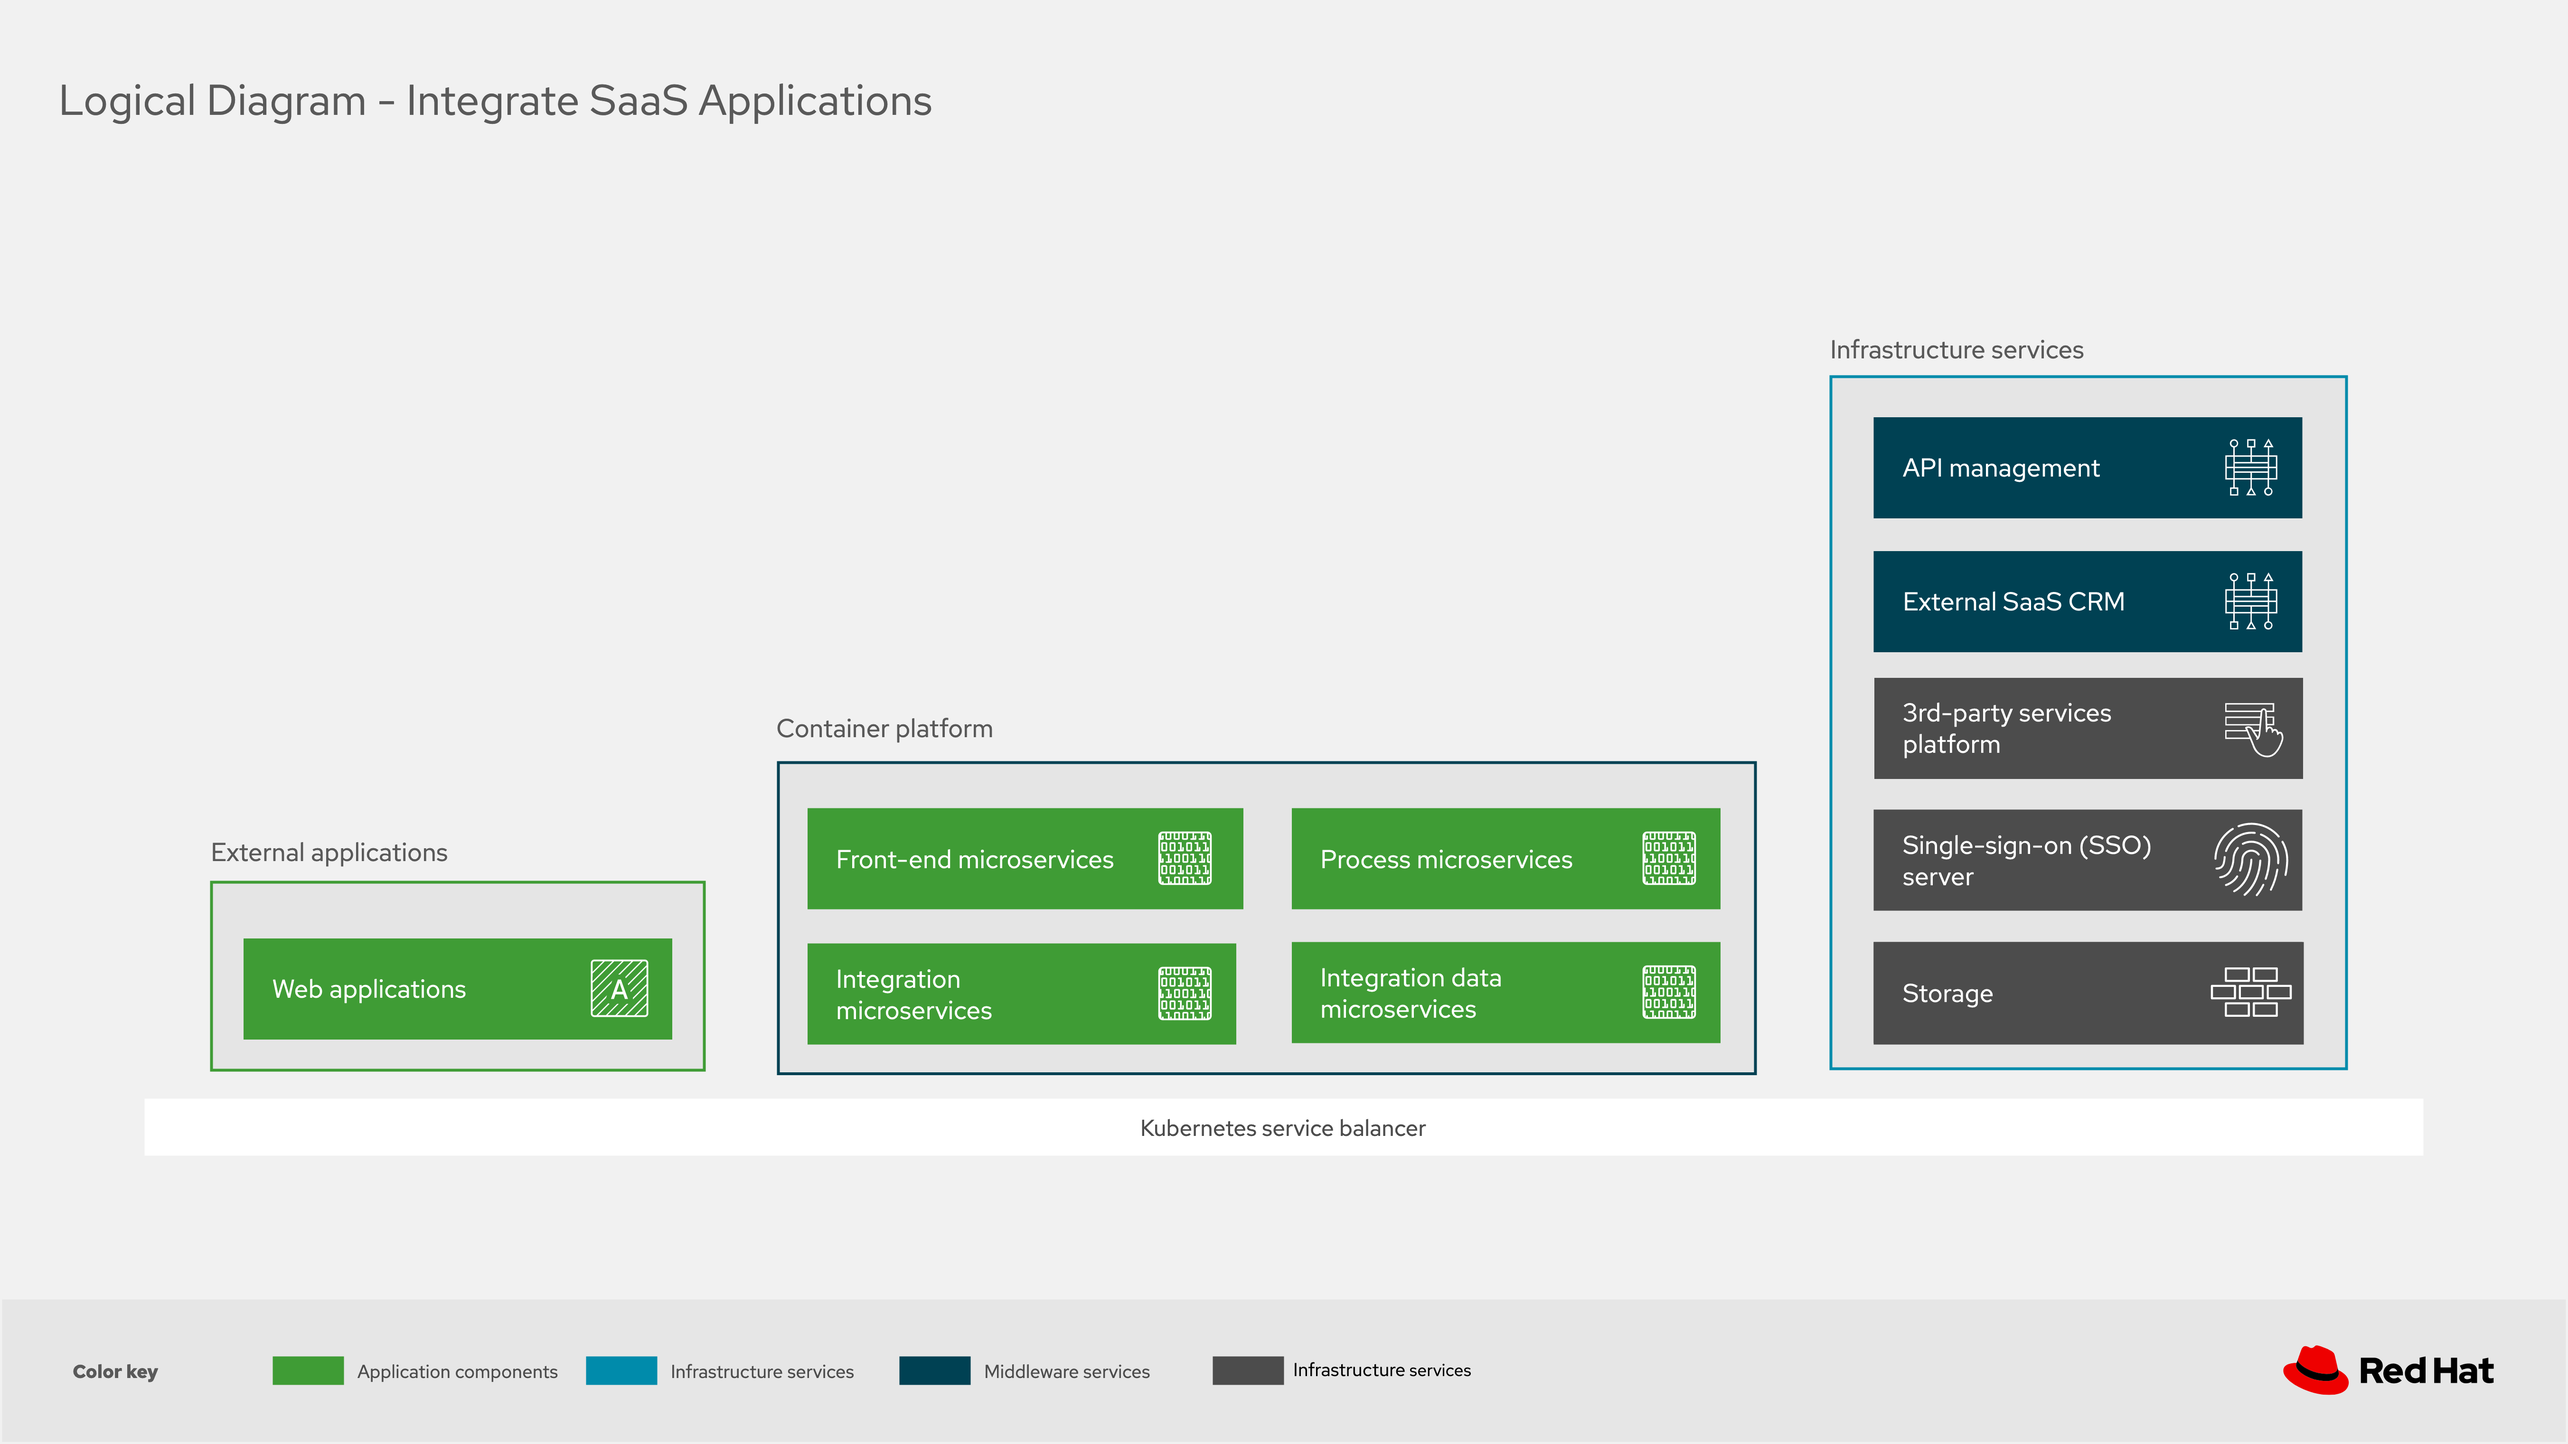
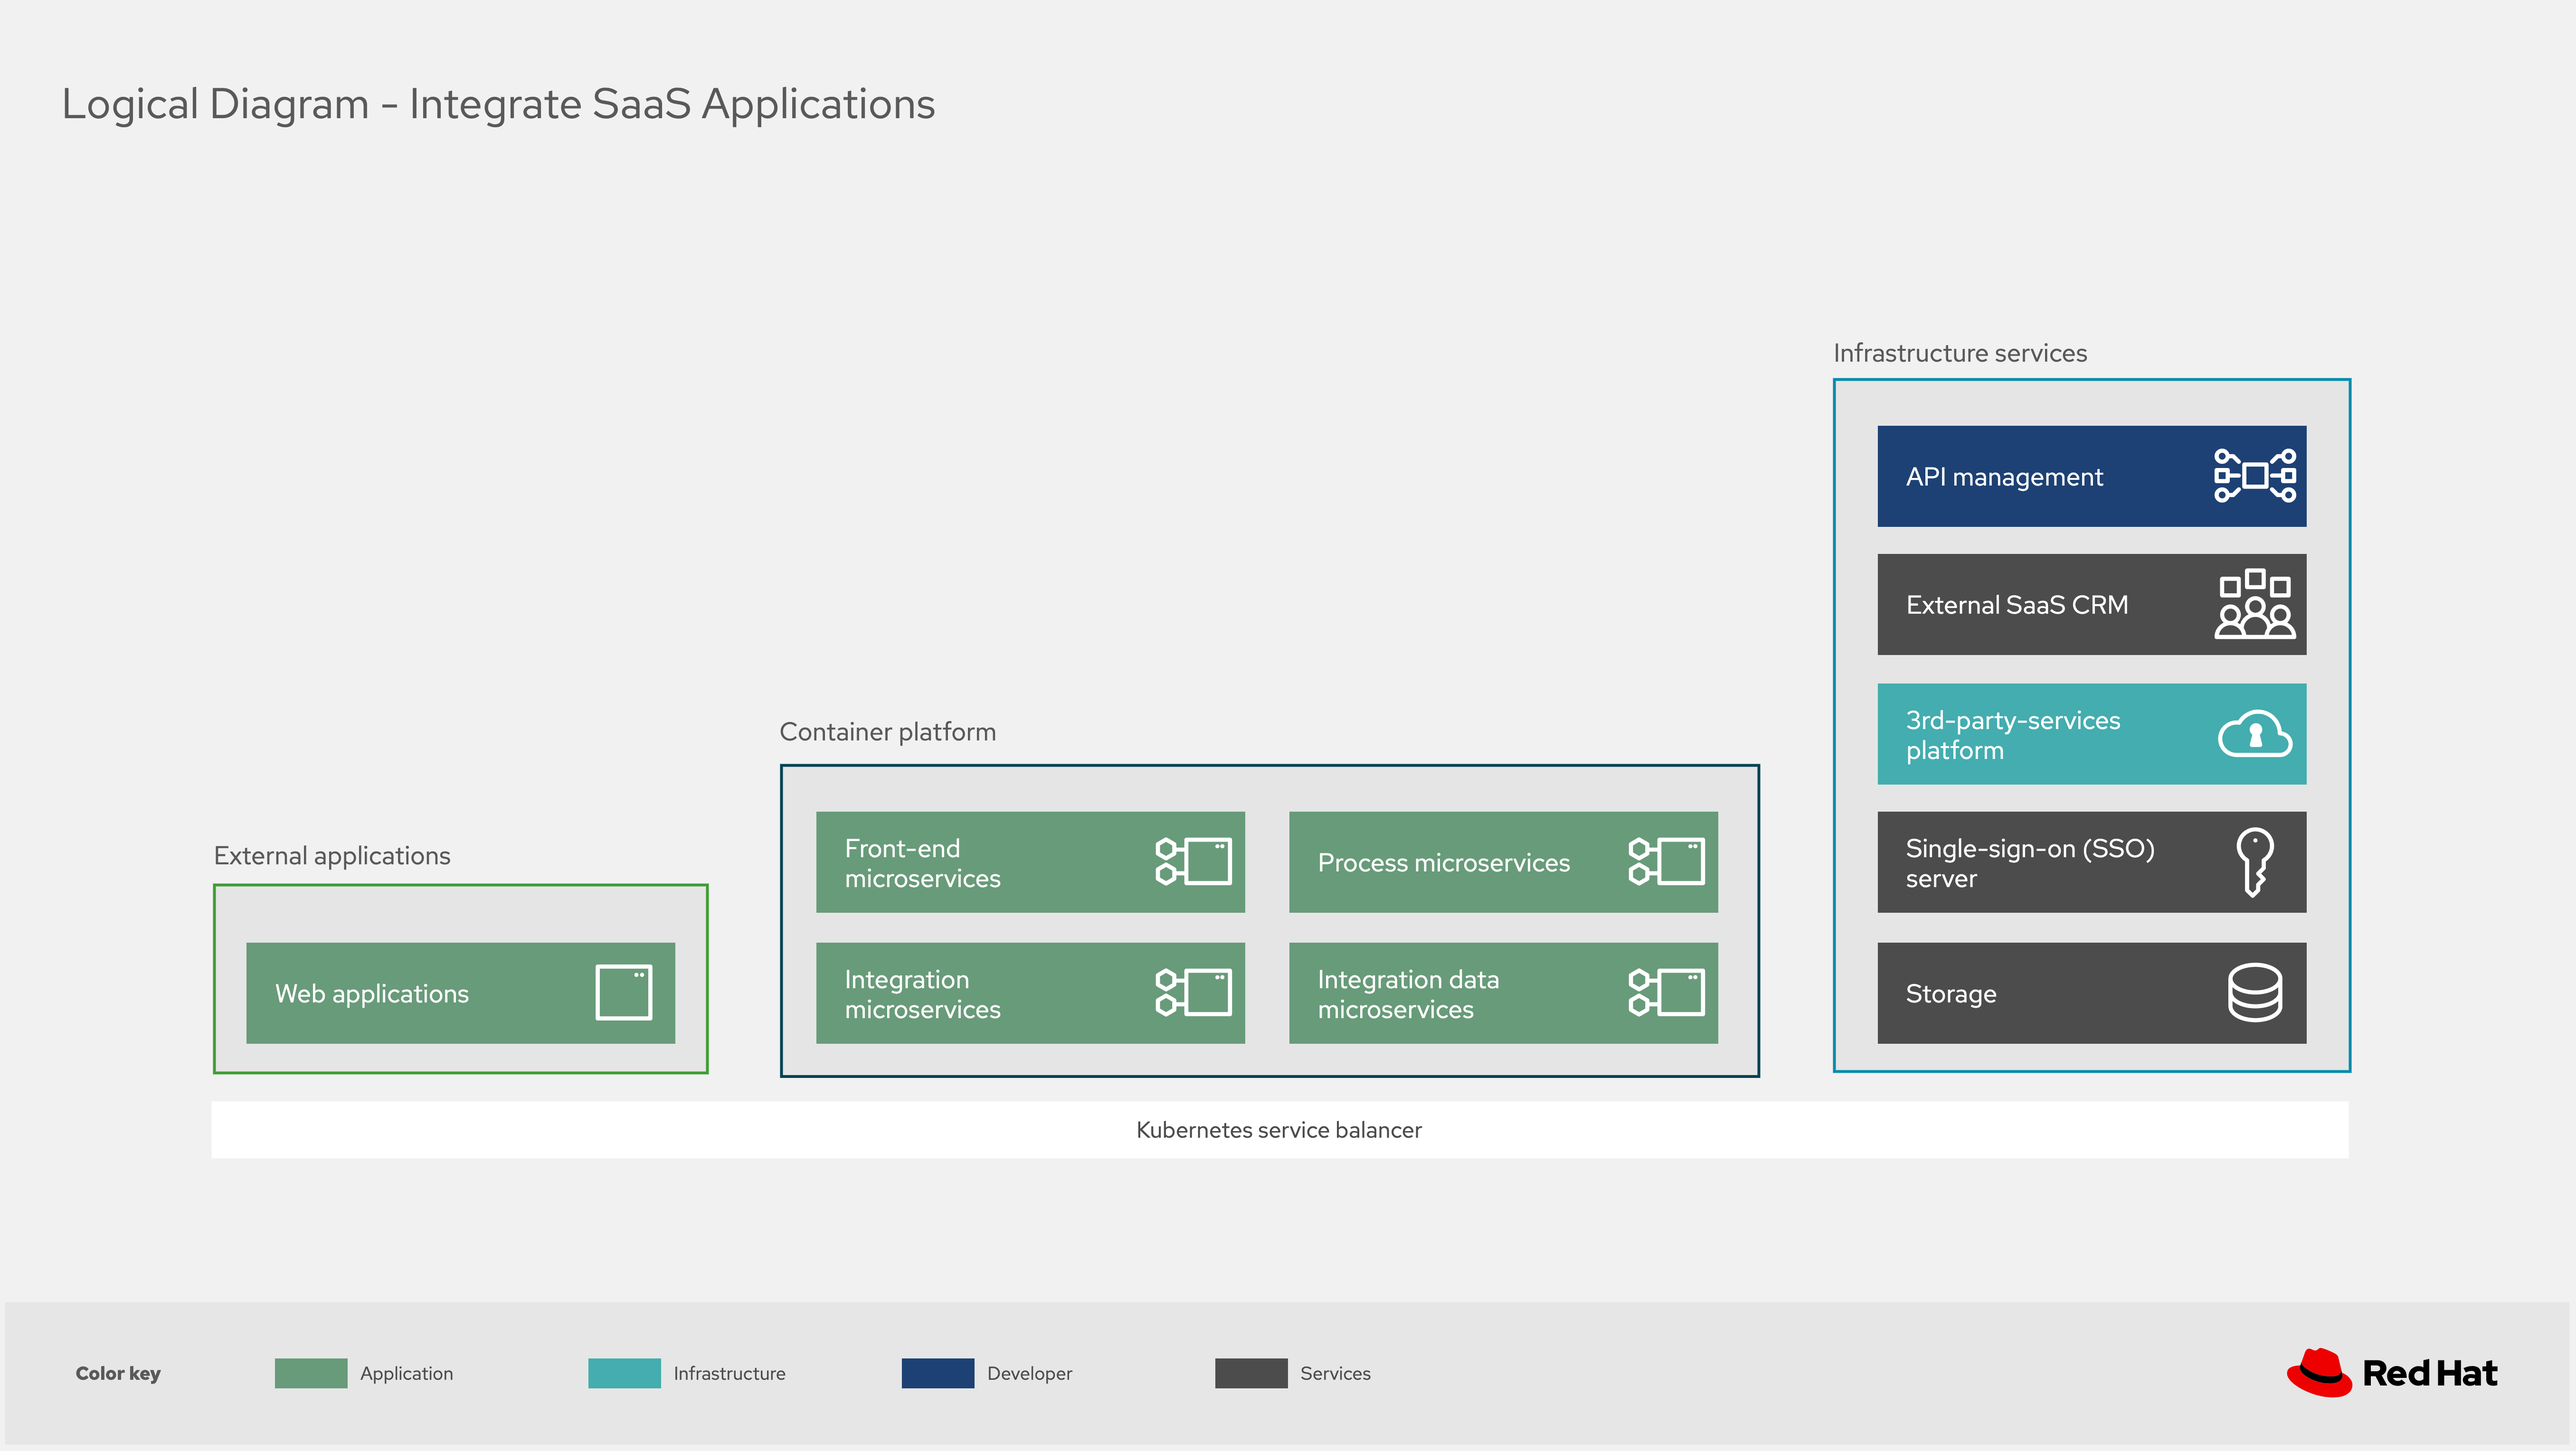
Updated LD's for SaaS integration blueprint.

diff --git a/README.md b/README.md
@@ -29,7 +29,7 @@ Images that can be used for slides (click to enlarge an image):
 [ [Load Diagram](https://redhatdemocentral.gitlab.io/portfolio-architecture-tooling/index.html?#/portfolio-architecture-examples/projects/logical-diagram-integrate-saas-applications.drawio) ]  [ [Download Diagram](https://gitlab.com/redhatdemocentral/portfolio-architecture-examples/-/raw/master/diagrams/logical-diagram-integrate-saas-applications.drawio?inline=false) ]
 
 <img src="images/logical-diagrams/integrating-with-saas-applications-ld.png" border="2" width="150" height="100">
-<img src="images/logical-diagrams/saas-ld.png" border="2" width="150" height="100">
+<img src="images/logical-diagrams/integrating-with-saas-applications-details-ld.png" border="2" width="150" height="100">
 
 ### Logical diagram (Omnichannel customer experience)
 
